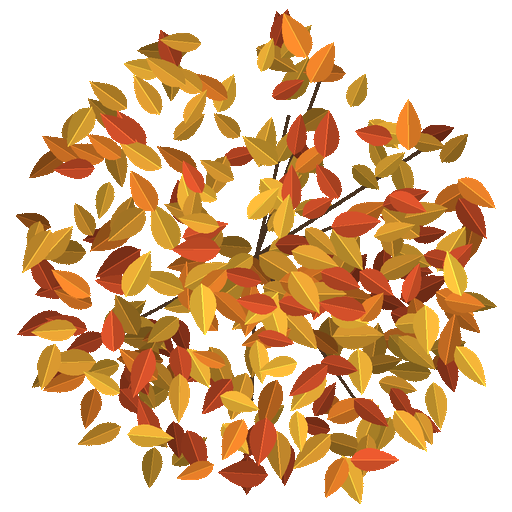
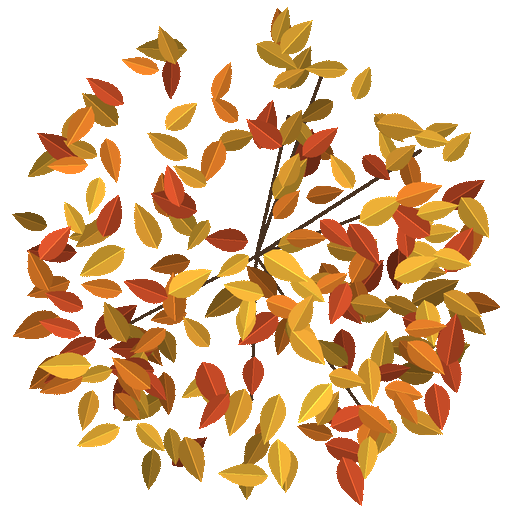
Texturas nuevas para más variedad de malas hierbas
- Hojas dentadas (diente de león y cardo), fronda de helecho, trébol y umbela de
  flores blancas, todas con alfa.
- Racimos de hojas de las copas con menos cobertura en el centro, para que a lo lejos
  se aclaren en vez de verse como placas.

Los modelos que usan estas texturas aún no están hechos.

Claude-Session: https://claude.ai/code/session_018XyZ6FXQ5XH7VCJfZ6HqEP

diff --git a/herramientas_dev/generar_texturas.py b/herramientas_dev/generar_texturas.py
@@ -315,7 +315,7 @@ def pintar_hoja(d, cx, cy, ang, largo, ancho, color, rng, venas=False, dentado=0
                 d.line([p, (p[0] + math.cos(a2) * L, p[1] + math.sin(a2) * L)], fill=claro, width=max(1, int(ancho / 45)))
 
 
-def racimo_hojas(nombre, paleta, semilla, n_hojas=300):
+def racimo_hojas(nombre, paleta, semilla, n_hojas=210):
     S = 1024
     rng = np.random.default_rng(semilla)
     fondo = tuple(int(x) for x in np.mean(paleta, 0))
@@ -328,7 +328,7 @@ def racimo_hojas(nombre, paleta, semilla, n_hojas=300):
         d.line([(S / 2, S / 2), (S / 2 + math.cos(a) * L, S / 2 + math.sin(a) * L)], fill=(70, 50, 34, 255), width=7)
     hojas = []
     for i in range(n_hojas):
-        r = 0.44 * S * rng.uniform(0, 1) ** 0.62
+        r = 0.44 * S * rng.uniform(0, 1) ** 0.5
         a = rng.uniform(0, 2 * math.pi)
         cx, cy = S / 2 + math.cos(a) * r, S / 2 + math.sin(a) * r
         ang = a + rng.normal(0, 1.1)
@@ -420,11 +420,120 @@ def parches():
     guardar("cesped_parche", mezcla((0.27, 0.45, 0.13), (0.5, 0.68, 0.26), val), alfa)
 
 
+def _recortar(im, fondo, nombre, ruido_sem=None, tam=None):
+    """Guarda una imagen RGBA dibujada a doble tamaño: alfa binario y color de fondo bajo lo transparente."""
+    w, h = im.size
+    im = im.resize(tam or (w // 2, h // 2), Image.LANCZOS)
+    arr = np.asarray(im) / 255.0
+    alfa = (arr[..., 3] > 0.5).astype(float)
+    rgb = arr[..., :3]
+    if ruido_sem is not None:
+        n = max(rgb.shape[:2])
+        rgb = rgb * (0.88 + 0.24 * ruido(n, 2.0, ruido_sem)[:rgb.shape[0], :rgb.shape[1]])[..., None]
+    rgb = rgb * alfa[..., None] + np.array(fondo) / 255.0 * (1 - alfa[..., None])
+    guardar(nombre, rgb, alfa)
+
+
+def hoja_dentada(nombre, color, n_dientes, fondo_diente, punta, semilla, espinas=False):
+    """Hoja alargada con dientes (diente de león, cardo). Base abajo, punta arriba."""
+    W, H = 512, 1024
+    rng = np.random.default_rng(semilla)
+    im = Image.new("RGBA", (W, H), color + (0,))
+    d = ImageDraw.Draw(im)
+    izq, der = [], []
+    y0, y1 = H - 30, 40
+    for i in range(n_dientes * 2 + 1):
+        t = i / (n_dientes * 2)
+        y = y0 + (y1 - y0) * t
+        env = math.sin(math.pi * (0.06 + 0.94 * t) ** 1.25) ** 0.7
+        w = W * 0.46 * env * (1.0 if i % 2 else fondo_diente) * rng.uniform(0.85, 1.0)
+        dy = -punta * (H / n_dientes) * (1 if i % 2 else 0)
+        izq.append((W / 2 - w, y - dy))
+        der.append((W / 2 + w, y - dy))
+    d.polygon(izq + der[::-1], fill=color + (255,))
+    claro = tuple(min(255, int(c * 1.3 + 20)) for c in color)
+    d.polygon(izq + [(W / 2, y1), (W / 2, y0)], fill=tuple(int(c * 0.86) for c in color) + (255,))
+    d.line([(W / 2, H), (W / 2, y1)], fill=claro + (255,), width=16)
+    for i in range(1, n_dientes * 2, 2):
+        d.line([(W / 2, izq[i][1] + 30), izq[i]], fill=claro + (255,), width=5)
+        d.line([(W / 2, der[i][1] + 30), der[i]], fill=claro + (255,), width=5)
+        if espinas:
+            for p_, sx in ((izq[i], -1), (der[i], 1)):
+                d.line([p_, (p_[0] + sx * 34, p_[1] - 26)], fill=(235, 230, 190, 255), width=6)
+    _recortar(im, color, nombre, semilla + 1)
+
+
+def fronda():
+    W, H = 512, 1024
+    col = (62, 122, 48)
+    im = Image.new("RGBA", (W, H), col + (0,))
+    d = ImageDraw.Draw(im)
+    rng = np.random.default_rng(70)
+    d.line([(W / 2, H), (W / 2, 20)], fill=(96, 120, 60, 255), width=12)
+    n = 26
+    for i in range(n):
+        t = i / (n - 1)
+        y = H - 60 - (H - 110) * t
+        largo = W * 0.47 * math.sin(math.pi * (0.1 + 0.9 * t) ** 0.7) ** 0.8
+        for lado in (-1, 1):
+            ang = -math.pi / 2 + lado * (math.pi / 2 - 0.35)
+            c = tuple(int(x * rng.uniform(0.85, 1.15)) for x in col)
+            pintar_hoja(d, W / 2, y, ang, largo, 44, c, rng)
+    _recortar(im, col, "fronda", 71)
+
+
+def trebol():
+    S = 512
+    col = (70, 140, 58)
+    im = Image.new("RGBA", (S, S), col + (0,))
+    d = ImageDraw.Draw(im)
+    for k in range(3):
+        a = -math.pi / 2 + k * 2 * math.pi / 3
+        cx, cy = S / 2 + math.cos(a) * 118, S / 2 + math.sin(a) * 118
+        d.ellipse([cx - 118, cy - 118, cx + 118, cy + 118], fill=col + (255,))
+        # marca clara en forma de V
+        for s_ in (-1, 1):
+            b = a + s_ * 0.55
+            d.line([(S / 2 + math.cos(a) * 60, S / 2 + math.sin(a) * 60), (cx + math.cos(b) * 70, cy + math.sin(b) * 70)],
+                   fill=(150, 200, 130, 255), width=12)
+        d.line([(S / 2, S / 2), (cx + math.cos(a) * 100, cy + math.sin(a) * 100)], fill=(52, 112, 44, 255), width=5)
+    _recortar(im, col, "trebol", 72)
+
+
+def flores_blancas():
+    """Umbela vista desde arriba: radios verdes acabados en ramilletes de florecillas blancas."""
+    S = 1024
+    rng = np.random.default_rng(73)
+    im = Image.new("RGBA", (S, S), (236, 236, 222, 0))
+    d = ImageDraw.Draw(im)
+    puntos = []
+    for i in range(60):
+        r = S * 0.44 * math.sqrt((i + 0.5) / 60)
+        a = i * math.radians(137.5)
+        puntos.append((S / 2 + math.cos(a) * r, S / 2 + math.sin(a) * r))
+    for x, y in puntos:
+        d.line([(S / 2, S / 2), (x, y)], fill=(110, 150, 70, 255), width=5)
+    for x, y in puntos:
+        for k in range(9):
+            fx, fy = x + rng.normal(0, 22), y + rng.normal(0, 22)
+            rr = rng.uniform(11, 16)
+            tono = int(rng.uniform(225, 255))
+            for p_ in range(5):
+                a = p_ * 2 * math.pi / 5 + k
+                d.ellipse([fx + math.cos(a) * rr * 0.7 - rr * 0.6, fy + math.sin(a) * rr * 0.7 - rr * 0.6,
+                           fx + math.cos(a) * rr * 0.7 + rr * 0.6, fy + math.sin(a) * rr * 0.7 + rr * 0.6], fill=(tono, tono, tono - 12, 255))
+            d.ellipse([fx - 4, fy - 4, fx + 4, fy + 4], fill=(225, 205, 90, 255))
+    _recortar(im, (236, 236, 222), "flores_blancas")
+
+
 def main():
     os.makedirs(SALIDA, exist_ok=True)
     for f in (liso, estuco, madera, tejas, piedra_muro, roca, corteza, cesped, tierra, asfalto,
-              arrugas, anillos, girasol_centro, brizna, petalo, hoja_ancha, hojas_caidas, hojarasca, parches):
+              arrugas, anillos, girasol_centro, brizna, petalo, hoja_ancha, hojas_caidas, hojarasca, parches,
+              fronda, trebol, flores_blancas):
         f()
+    hoja_dentada("hoja_diente", (74, 138, 52), 7, 0.42, 0.35, 80)
+    hoja_dentada("hoja_cardo", (88, 128, 92), 6, 0.35, 0.1, 82, espinas=True)
     racimo_hojas("hojas_verde", [(74, 128, 44), (96, 150, 52), (58, 108, 40), (118, 160, 60)], 50)
     racimo_hojas("hojas_otono", [(226, 124, 40), (240, 178, 56), (200, 76, 40), (214, 150, 48)], 51)
     with open(os.path.join(SALIDA, "medias.json"), "w") as f:
